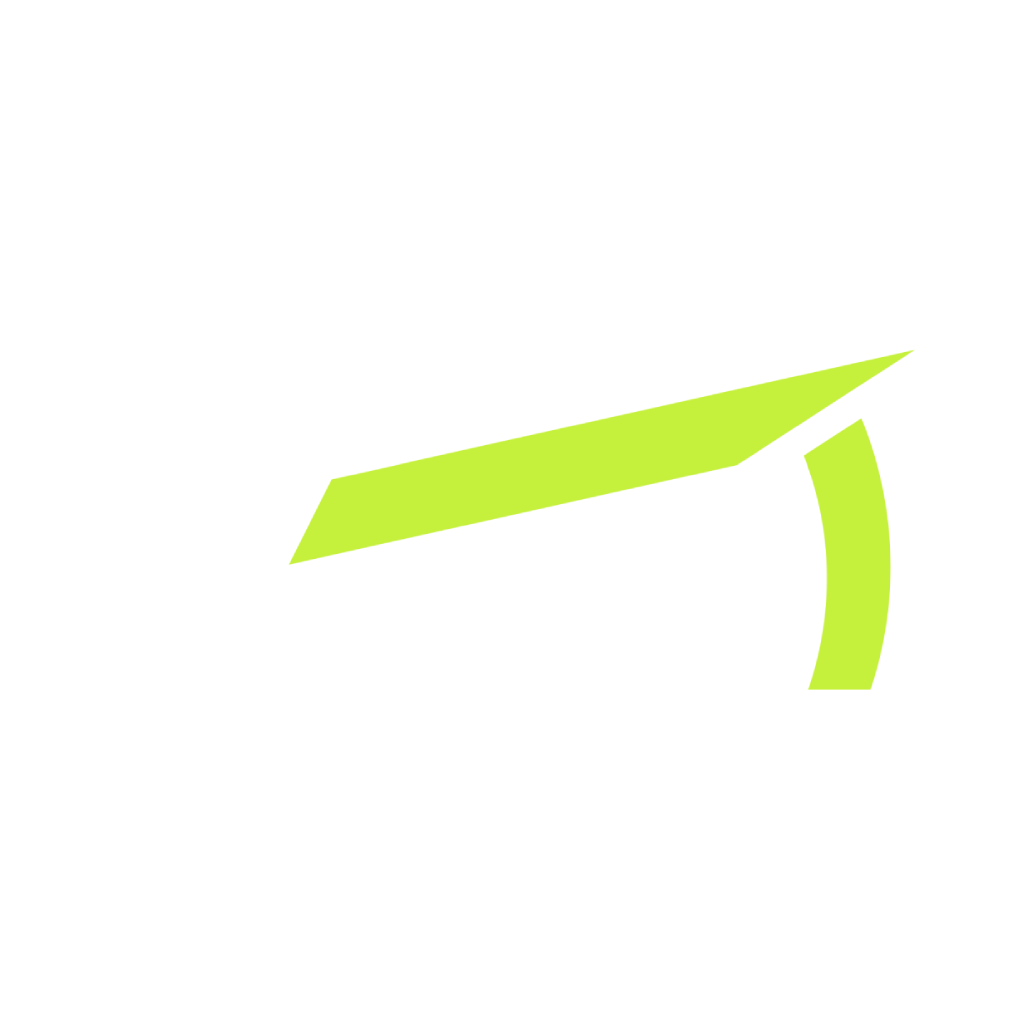
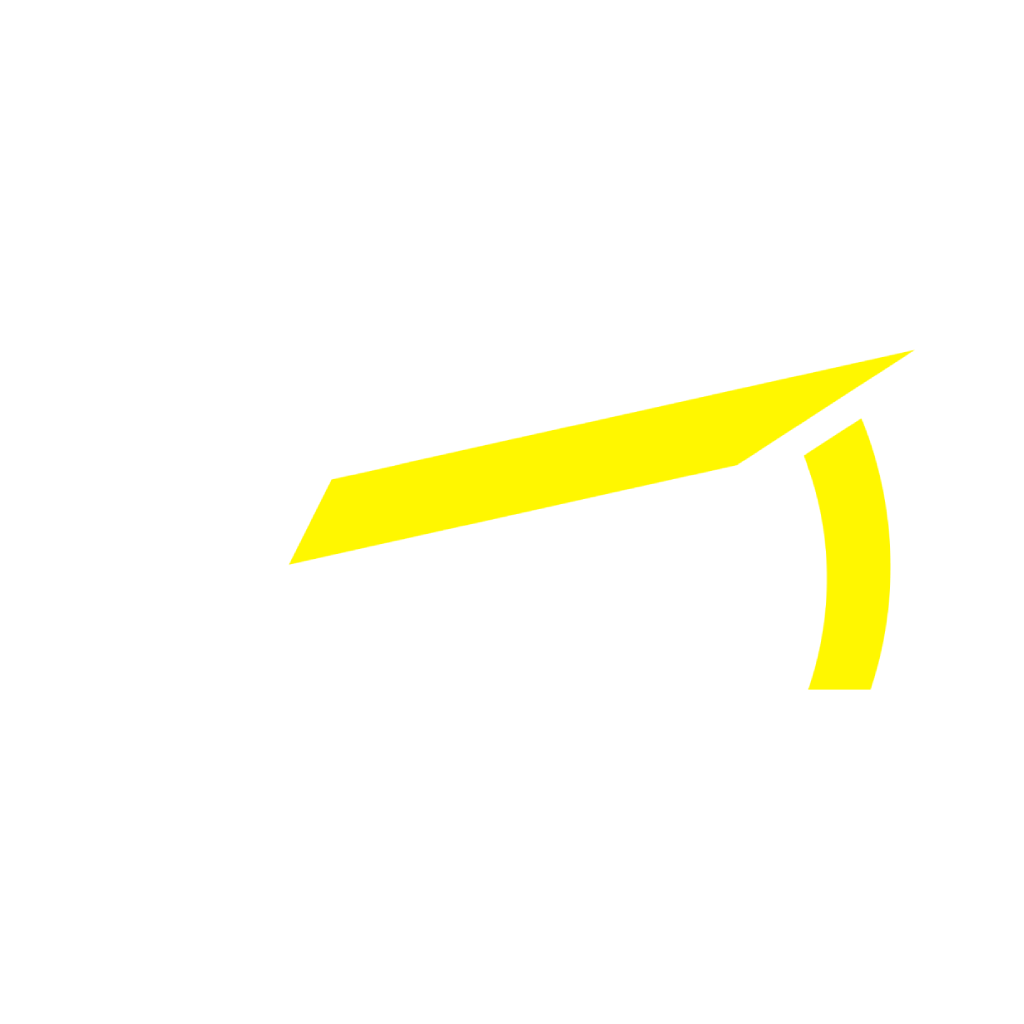
rebrand: Fuel STK to Fueled 2Spec
Site-wide text rename, accent color lime -> yellow, and new logo assets
(nav-logo, hero, favicons, touch icon) matching the mobile app's rebrand.
The hero/nav wordmarks are rebuilt with the new name and a new tagline
("Fuel, built to your spec" / "Your fuel to your specifications"),
replacing the old "...Stacked" wordplay tied to the old name.

Changed region(s): [[0.2812, 0.3438, 0.875, 0.6875]]

diff --git a/faq.html b/faq.html
@@ -3,8 +3,8 @@
 <head>
 <meta charset="UTF-8">
 <meta name="viewport" content="width=device-width, initial-scale=1.0">
-<title>FAQ — Fuel STK</title>
-<meta name="description" content="Everything you need to know about Fuel STK and how it can transform your nutrition.">
+<title>FAQ — Fueled 2Spec</title>
+<meta name="description" content="Everything you need to know about Fueled 2Spec and how it can transform your nutrition.">
 <link rel="icon" type="image/png" href="assets/favicon-32.png?v=3">
 <link rel="apple-touch-icon" href="assets/apple-touch-icon.png?v=3">
 <link rel="stylesheet" href="assets/style.css">
@@ -16,7 +16,7 @@
 <header>
   <nav class="wrap">
     <a href="index.html" class="brand">
-      <img src="assets/nav-logo.png" alt="Fuel STK">
+      <img src="assets/nav-logo.png" alt="Fueled 2Spec">
     </a>
     <div class="nav-links">
       <a href="index.html">Home</a>
@@ -40,7 +40,7 @@
     <img src="assets/apple-touch-icon.png" alt="" class="faq-hero-mark">
     <div class="eyebrow"><span class="bar"></span> FAQ</div>
     <h1>Questions?<br>We've <span class="accent">got answers.</span></h1>
-    <p class="sub">Everything you need to know about Fuel STK and how it can transform your nutrition.</p>
+    <p class="sub">Everything you need to know about Fueled 2Spec and how it can transform your nutrition.</p>
     <div class="faq-search">
       <svg viewBox="0 0 24 24" fill="none" stroke="currentColor" stroke-width="2"><circle cx="11" cy="11" r="7"/><path d="m21 21-4.3-4.3"/></svg>
       <input type="text" id="faqSearch" placeholder="Search questions...">
@@ -75,12 +75,12 @@
 
   <div class="faq-list" id="faqList">
     <details class="faq-item" data-cat="general" open>
-      <summary>What is Fuel STK?<span class="faq-toggle"></span></summary>
-      <p>Fuel STK is an AI-powered meal planning app that builds meal plans from the groceries you already have. Tell it your goals, stock your pantry, and it creates meals designed to hit your macros — no spreadsheets or guesswork required.</p>
+      <summary>What is Fueled 2Spec?<span class="faq-toggle"></span></summary>
+      <p>Fueled 2Spec is an AI-powered meal planning app that builds meal plans from the groceries you already have. Tell it your goals, stock your pantry, and it creates meals designed to hit your macros — no spreadsheets or guesswork required.</p>
     </details>
     <details class="faq-item" data-cat="meal-plans">
       <summary>How does the AI meal planning work?<span class="faq-toggle"></span></summary>
-      <p>Fuel STK uses Claude to choose a coherent, realistic set of foods for each meal from your pantry, then a math solver calculates the exact grams needed to hit your macro targets — so the food choices are sensible and the numbers are always precise.</p>
+      <p>Fueled 2Spec uses Claude to choose a coherent, realistic set of foods for each meal from your pantry, then a math solver calculates the exact grams needed to hit your macro targets — so the food choices are sensible and the numbers are always precise.</p>
     </details>
     <details class="faq-item" data-cat="meal-plans">
       <summary>What's the difference between a regular plan and an AI plan?<span class="faq-toggle"></span></summary>
@@ -88,15 +88,15 @@
     </details>
     <details class="faq-item" data-cat="general">
       <summary>Do I have to track calories or macros manually?<span class="faq-toggle"></span></summary>
-      <p>No — Fuel STK calculates your daily targets and builds meal plans to match them automatically. You can also log food manually any time you want to track something outside your plan.</p>
+      <p>No — Fueled 2Spec calculates your daily targets and builds meal plans to match them automatically. You can also log food manually any time you want to track something outside your plan.</p>
     </details>
     <details class="faq-item" data-cat="meal-plans">
       <summary>What if I have dietary restrictions or food preferences?<span class="faq-toggle"></span></summary>
-      <p>Fuel STK doesn't track allergies or dietary restrictions — since every meal is built only from foods already in your pantry, your pantry itself is the safeguard: simply don't add foods you can't or don't want to eat, and Fuel STK will never suggest them. Always review a suggested meal before eating it, just as you would any recipe.</p>
+      <p>Fueled 2Spec doesn't track allergies or dietary restrictions — since every meal is built only from foods already in your pantry, your pantry itself is the safeguard: simply don't add foods you can't or don't want to eat, and Fueled 2Spec will never suggest them. Always review a suggested meal before eating it, just as you would any recipe.</p>
     </details>
     <details class="faq-item" data-cat="how-to">
       <summary>How do I add my groceries?<span class="faq-toggle"></span></summary>
-      <p>Scan a barcode or search by name — Fuel STK looks up nutrition info automatically and adds it to your pantry. You can also enter a food manually if it isn't in the database.</p>
+      <p>Scan a barcode or search by name — Fueled 2Spec looks up nutrition info automatically and adds it to your pantry. You can also enter a food manually if it isn't in the database.</p>
     </details>
     <details class="faq-item" data-cat="how-to">
       <summary>Should I add a food by weight or by unit?<span class="faq-toggle"></span></summary>
@@ -124,7 +124,7 @@
     </details>
     <details class="faq-item" data-cat="how-to">
       <summary>Can I edit my meal plan?<span class="faq-toggle"></span></summary>
-      <p>Yes. You can swap ingredients, add or remove foods, and adjust quantities on any meal — Fuel STK will recalculate portions to help keep your day on target.</p>
+      <p>Yes. You can swap ingredients, add or remove foods, and adjust quantities on any meal — Fueled 2Spec will recalculate portions to help keep your day on target.</p>
     </details>
     <details class="faq-item" data-cat="how-to">
       <summary>Can I add extra food to a specific meal?<span class="faq-toggle"></span></summary>
@@ -140,7 +140,7 @@
     </details>
     <details class="faq-item" data-cat="how-to">
       <summary>How do I swap a food in my meal plan?<span class="faq-toggle"></span></summary>
-      <p>Tap the swap icon (<ion-icon name="swap-horizontal-outline" aria-hidden="true" style="font-size:16px;vertical-align:-3px;color:var(--primary)"></ion-icon>) on any item in a meal, then pick a replacement from your pantry. Fuel STK tries to match the macros of the food you're swapping out, so a swap doesn't throw off what that meal was already hitting.</p>
+      <p>Tap the swap icon (<ion-icon name="swap-horizontal-outline" aria-hidden="true" style="font-size:16px;vertical-align:-3px;color:var(--primary)"></ion-icon>) on any item in a meal, then pick a replacement from your pantry. Fueled 2Spec tries to match the macros of the food you're swapping out, so a swap doesn't throw off what that meal was already hitting.</p>
     </details>
     <details class="faq-item" data-cat="how-to">
       <summary>Can I replace an entire meal instead of editing it?<span class="faq-toggle"></span></summary>
@@ -160,7 +160,7 @@
     </details>
     <details class="faq-item" data-cat="how-to">
       <summary>Can I add an extra meal just for one day?<span class="faq-toggle"></span></summary>
-      <p>Yes — tap "Add a meal for today" on the Plan tab to add a one-off meal without changing your regular schedule. Once you've added food to it, Fuel STK can offer to recalculate your other meals to make room — it will never touch a meal you've already logged.</p>
+      <p>Yes — tap "Add a meal for today" on the Plan tab to add a one-off meal without changing your regular schedule. Once you've added food to it, Fueled 2Spec can offer to recalculate your other meals to make room — it will never touch a meal you've already logged.</p>
     </details>
     <details class="faq-item" data-cat="how-to">
       <summary>Why does my plan say it can't hit my targets?<span class="faq-toggle"></span></summary>
@@ -176,7 +176,7 @@
     </details>
     <details class="faq-item" data-cat="how-to">
       <summary>How do I log what I actually ate?<span class="faq-toggle"></span></summary>
-      <p>Tap "I ate this" (<ion-icon name="journal-outline" aria-hidden="true" style="font-size:16px;vertical-align:-3px;color:var(--primary)"></ion-icon>) on any meal in your plan to log it in one tap, or add food manually from the Log tab. Once a meal is logged, Fuel STK never changes its portions again — even if you edit or recalculate the rest of the day.</p>
+      <p>Tap "I ate this" (<ion-icon name="journal-outline" aria-hidden="true" style="font-size:16px;vertical-align:-3px;color:var(--primary)"></ion-icon>) on any meal in your plan to log it in one tap, or add food manually from the Log tab. Once a meal is logged, Fueled 2Spec never changes its portions again — even if you edit or recalculate the rest of the day.</p>
     </details>
     <details class="faq-item" data-cat="how-to">
       <summary>Can I log or edit food for a previous day?<span class="faq-toggle"></span></summary>
@@ -196,7 +196,7 @@
     </details>
     <details class="faq-item" data-cat="how-to">
       <summary>Can I sign in with Apple or Google?<span class="faq-toggle"></span></summary>
-      <p>Yes — Fuel STK supports signing in with Apple, Google, or a regular email and password, whichever is easiest for you.</p>
+      <p>Yes — Fueled 2Spec supports signing in with Apple, Google, or a regular email and password, whichever is easiest for you.</p>
     </details>
     <details class="faq-item" data-cat="how-to">
       <summary>How do I delete my account?<span class="faq-toggle"></span></summary>
@@ -207,19 +207,19 @@
       <p>Both are linked from the Settings screen in the app (tap the gear icon — <ion-icon name="settings-outline" aria-hidden="true" style="font-size:16px;vertical-align:-3px;color:var(--primary)"></ion-icon>), as well as at the bottom of this page.</p>
     </details>
     <details class="faq-item" data-cat="general">
-      <summary>Is Fuel STK suitable for everyone?<span class="faq-toggle"></span></summary>
-      <p>Fuel STK provides general nutrition and meal-planning information — it's not a substitute for medical or dietary advice from a qualified professional. If you have a medical condition or specific health needs, check with a doctor or registered dietitian before making significant changes to your diet.</p>
+      <summary>Is Fueled 2Spec suitable for everyone?<span class="faq-toggle"></span></summary>
+      <p>Fueled 2Spec provides general nutrition and meal-planning information — it's not a substitute for medical or dietary advice from a qualified professional. If you have a medical condition or specific health needs, check with a doctor or registered dietitian before making significant changes to your diet.</p>
     </details>
     <details class="faq-item" data-cat="general">
-      <summary>What platforms is Fuel STK available on?<span class="faq-toggle"></span></summary>
-      <p>Fuel STK is currently in early access testing for iOS, with an App Store release coming soon. Android support is planned — join the early access list to be notified when it's available.</p>
+      <summary>What platforms is Fueled 2Spec available on?<span class="faq-toggle"></span></summary>
+      <p>Fueled 2Spec is currently in early access testing for iOS, with an App Store release coming soon. Android support is planned — join the early access list to be notified when it's available.</p>
     </details>
     <details class="faq-item" data-cat="privacy">
       <summary>Is my data secure?<span class="faq-toggle"></span></summary>
       <p>Yes. Your data is encrypted in transit, and our database uses row-level security so your information is only ever accessible from your own account. You can permanently delete your account and all associated data at any time from Settings.</p>
     </details>
     <details class="faq-item" data-cat="privacy">
-      <summary>What data does Fuel STK collect?<span class="faq-toggle"></span></summary>
+      <summary>What data does Fueled 2Spec collect?<span class="faq-toggle"></span></summary>
       <p>Just what's needed to build your plans and track your progress: your account info, health and fitness details you provide (age, weight, goals, macro targets), your pantry and meal history, and basic usage data like how many AI plans you've generated. Full details are in our Privacy Policy.</p>
     </details>
     <details class="faq-item" data-cat="privacy">
@@ -231,12 +231,12 @@
       <p>Not yet — you can view and edit your data directly in the app, and permanently delete all of it from Settings, but a dedicated export option isn't built yet. It's on our roadmap.</p>
     </details>
     <details class="faq-item" data-cat="billing">
-      <summary>Do I need an account to use Fuel STK?<span class="faq-toggle"></span></summary>
-      <p>Yes — creating an account (with email, Apple, or Google) lets Fuel STK securely save your pantry, targets, and meal history.</p>
+      <summary>Do I need an account to use Fueled 2Spec?<span class="faq-toggle"></span></summary>
+      <p>Yes — creating an account (with email, Apple, or Google) lets Fueled 2Spec securely save your pantry, targets, and meal history.</p>
     </details>
     <details class="faq-item" data-cat="billing">
       <summary>What are the pricing and subscription options?<span class="faq-toggle"></span></summary>
-      <p>Fuel STK is currently free during early access. We'll announce pricing details before any paid tier launches — early access users will be the first to know.</p>
+      <p>Fueled 2Spec is currently free during early access. We'll announce pricing details before any paid tier launches — early access users will be the first to know.</p>
     </details>
     <details class="faq-item" data-cat="billing">
       <summary>Can I cancel my subscription anytime?<span class="faq-toggle"></span></summary>
@@ -252,7 +252,7 @@
       <div class="cta-icon"><img src="assets/apple-touch-icon.png" alt=""></div>
       <div>
         <h2>Still have questions?</h2>
-        <p>Reach out and we'll get back to you — or join the early access list to be the first to try Fuel STK.</p>
+        <p>Reach out and we'll get back to you — or join the early access list to be the first to try Fueled 2Spec.</p>
       </div>
     </div>
     <div class="store-badges">
@@ -268,7 +268,7 @@
   <div class="wrap">
     <div class="footer-grid">
       <div class="footer-brand-col">
-        <img src="assets/nav-logo.png" alt="Fuel STK">
+        <img src="assets/nav-logo.png" alt="Fueled 2Spec">
         <p>Your fuel <span class="accent">Stacked</span></p>
         <a href="mailto:info@fuelstk.com" class="footer-email">
           <svg viewBox="0 0 24 24" fill="none" stroke="currentColor" stroke-width="1.8"><rect x="3" y="5" width="18" height="14" rx="2"/><path d="m3 7 9 6 9-6"/></svg>
@@ -287,7 +287,7 @@
         <a href="mailto:support@fuelstk.com">Contact Support</a>
       </div>
     </div>
-    <div class="footer-note">© 2026 Fuel STK. All rights reserved.</div>
+    <div class="footer-note">© 2026 Fueled 2Spec. All rights reserved.</div>
   </div>
 </footer>
 

diff --git a/index.html b/index.html
@@ -3,8 +3,8 @@
 <head>
 <meta charset="UTF-8">
 <meta name="viewport" content="width=device-width, initial-scale=1.0">
-<title>Fuel STK — Your fuel Stacked</title>
-<meta name="description" content="Fuel STK builds meal plans from what's actually in your pantry, so you hit your macros without the guesswork.">
+<title>Fueled 2Spec — Fuel, built to your spec</title>
+<meta name="description" content="Fueled 2Spec builds meal plans from what's actually in your pantry, so you hit your macros without the guesswork.">
 <link rel="icon" type="image/png" href="assets/favicon-32.png?v=3">
 <link rel="apple-touch-icon" href="assets/apple-touch-icon.png?v=3">
 <link rel="stylesheet" href="assets/style.css">
@@ -14,7 +14,7 @@
 <header>
   <nav class="wrap">
     <a href="#" class="brand">
-      <img src="assets/nav-logo.png" alt="Fuel STK">
+      <img src="assets/nav-logo.png" alt="Fueled 2Spec">
     </a>
     <div class="nav-links">
       <a href="index.html" class="active">Home</a>
@@ -37,20 +37,20 @@
   <div class="wrap">
     <div>
       <div class="eyebrow"><span class="bar"></span> AI-Powered Meal Plans</div>
-      <h1>Your fuel<br><span class="accent">Stacked</span></h1>
-      <p class="sub">Fuel STK creates personalized meal plans using the groceries you already have — designed to hit your macros and crush your goals.</p>
+      <h1>Fuel,<br><span class="accent">built to spec</span></h1>
+      <p class="sub">Fueled 2Spec creates personalized meal plans using the groceries you already have — designed to hit your macros and crush your goals.</p>
       <div class="hero-ctas">
         <a href="mailto:info@fuelstk.com?subject=Apple" class="btn-primary">Notify me — iOS</a>
         <a href="mailto:info@fuelstk.com?subject=Android" class="btn-secondary">Notify me — Android</a>
       </div>
       <div class="proof">
         <span class="rocket">🚀</span>
-        <span class="proof-text"><strong>Launching soon</strong> — join the early access list and be first to get stacked.</span>
+        <span class="proof-text"><strong>Launching soon</strong> — join the early access list and be first to get fueled.</span>
       </div>
     </div>
     <div class="phones">
-      <img src="assets/phone-dashboard.png" alt="Fuel STK dashboard" class="phone-shot phone-1">
-      <img src="assets/phone-pantry.png" alt="Fuel STK pantry" class="phone-shot phone-2">
+      <img src="assets/phone-dashboard.png" alt="Fueled 2Spec dashboard" class="phone-shot phone-1">
+      <img src="assets/phone-pantry.png" alt="Fueled 2Spec pantry" class="phone-shot phone-2">
     </div>
   </div>
 </section>
@@ -61,7 +61,7 @@
       <div class="problem-copy">
         <div class="eyebrow"><span class="bar"></span> The Problem</div>
         <h2>Eating for your goals shouldn't require a spreadsheet.</h2>
-        <p>You already know what foods you like. Fuel STK removes the repetitive part — planning meals, calculating portions, and trying to make every number line up.</p>
+        <p>You already know what foods you like. Fueled 2Spec removes the repetitive part — planning meals, calculating portions, and trying to make every number line up.</p>
       </div>
       <div class="problem-cards">
         <div class="problem-card">
@@ -78,7 +78,7 @@
         </div>
       </div>
     </div>
-    <p class="problem-line">Fuel STK <span class="accent-underline">handles</span> the math so you can focus on eating and progressing.</p>
+    <p class="problem-line">Fueled 2Spec <span class="accent-underline">handles</span> the math so you can focus on eating and progressing.</p>
   </div>
 </section>
 
@@ -117,7 +117,7 @@
       <div class="how-step">
         <div class="how-num">03</div>
         <h3><svg viewBox="0 0 24 24" fill="none" stroke="currentColor" stroke-width="1.5"><path d="M12 3 3 8l9 5 9-5-9-5z"/><path d="M3 12l9 5 9-5"/><path d="M3 16l9 5 9-5"/></svg> Generate your day</h3>
-        <p>Fuel STK combines your foods into realistic meals and calculates the portions for you.</p>
+        <p>Fueled 2Spec combines your foods into realistic meals and calculates the portions for you.</p>
         <div class="how-phone">
           <div class="how-phone-frame how-phone-ready">
             <div class="how-phone-check"><svg viewBox="0 0 24 24" fill="none" stroke="currentColor" stroke-width="2.5"><path d="M4 12l5 5L20 6"/></svg></div>
@@ -135,7 +135,7 @@
       <div class="action-copy">
         <div class="eyebrow"><span class="bar"></span> See It In Action</div>
         <h2>Your pantry.<br>Your goals.<br>Your plan.</h2>
-        <p>Fuel STK turns the groceries you already have into macro-friendly meals — automatically portioned for your goals.</p>
+        <p>Fueled 2Spec turns the groceries you already have into macro-friendly meals — automatically portioned for your goals.</p>
       </div>
       <div class="action-visual">
         <div class="action-card">
@@ -149,8 +149,8 @@
         </div>
         <div class="action-flow">
           <svg viewBox="0 0 24 24" fill="none" stroke="currentColor" stroke-width="1.8"><path d="M5 12h14M13 6l6 6-6 6"/></svg>
-          <img src="assets/app_icon_sm.png" alt="Fuel STK AI" class="action-ai-icon">
-          <span class="action-ai-label">Fuel STK AI</span>
+          <img src="assets/app_icon_sm.png" alt="Fueled 2Spec AI" class="action-ai-icon">
+          <span class="action-ai-label">Fueled 2Spec AI</span>
           <svg viewBox="0 0 24 24" fill="none" stroke="currentColor" stroke-width="1.8"><path d="M5 12h14M13 6l6 6-6 6"/></svg>
         </div>
         <div class="action-card">
@@ -176,7 +176,7 @@
       <div class="feature-card">
         <div class="feature-icon"><svg viewBox="0 0 24 24" fill="none" stroke="currentColor" stroke-width="1.5"><path d="M4 21h16"/><path d="M12 3v13"/><path d="M7 16l5-13 5 13"/><path d="M7 16a5 5 0 0 0 10 0"/></svg></div>
         <h4>Exact portions</h4>
-        <p>Fuel STK calculates the amount of each food needed to fit your targets — down to the gram.</p>
+        <p>Fueled 2Spec calculates the amount of each food needed to fit your targets — down to the gram.</p>
       </div>
       <div class="feature-card">
         <div class="feature-icon"><svg viewBox="0 0 24 24" fill="none" stroke="currentColor" stroke-width="1.5"><path d="M9 18h6M10 21h4"/><path d="M12 3a6 6 0 0 0-4 10.5c.6.6 1 1.4 1 2.5h6c0-1.1.4-1.9 1-2.5A6 6 0 0 0 12 3z"/></svg></div>
@@ -240,7 +240,7 @@
     <div>
       <div class="eyebrow"><span class="bar"></span> Built For You</div>
       <h2>Meals that fit your life</h2>
-      <p>Whether you want to build muscle, lose fat, or just eat healthier — Fuel STK makes it easy with meals you'll actually enjoy.</p>
+      <p>Whether you want to build muscle, lose fat, or just eat healthier — Fueled 2Spec makes it easy with meals you'll actually enjoy.</p>
       <ul class="checklist">
         <li><span class="check"><svg viewBox="0 0 24 24" fill="none" stroke="currentColor" stroke-width="3"><path d="M4 12l5 5L20 6"/></svg></span> Personalized to your goals</li>
         <li><span class="check"><svg viewBox="0 0 24 24" fill="none" stroke="currentColor" stroke-width="3"><path d="M4 12l5 5L20 6"/></svg></span> Uses the groceries you have</li>
@@ -250,7 +250,7 @@
     </div>
     <div class="split-visual">
       <div class="food-plate">🍲</div>
-      <img src="assets/phone-dashboard.png" alt="Fuel STK dashboard" class="split-phone-shot">
+      <img src="assets/phone-dashboard.png" alt="Fueled 2Spec dashboard" class="split-phone-shot">
     </div>
   </div>
 </section>
@@ -261,7 +261,7 @@
       <div class="cta-icon"><img src="assets/apple-touch-icon.png" alt=""></div>
       <div>
         <h2>Your groceries are already there.<br><span class="accent">Your meal plan should be too.</span></h2>
-        <p>Join the Fuel STK early-access list and be one of the first to turn your pantry into personalized, macro-friendly meals.</p>
+        <p>Join the Fueled 2Spec early-access list and be one of the first to turn your pantry into personalized, macro-friendly meals.</p>
       </div>
     </div>
     <div class="cta-right">
@@ -274,7 +274,7 @@
   <div class="wrap">
     <div class="footer-grid">
       <div class="footer-brand-col">
-        <img src="assets/nav-logo.png" alt="Fuel STK">
+        <img src="assets/nav-logo.png" alt="Fueled 2Spec">
         <p>Your fuel <span class="accent">Stacked</span></p>
         <a href="mailto:info@fuelstk.com" class="footer-email">
           <svg viewBox="0 0 24 24" fill="none" stroke="currentColor" stroke-width="1.8"><rect x="3" y="5" width="18" height="14" rx="2"/><path d="m3 7 9 6 9-6"/></svg>
@@ -293,7 +293,7 @@
         <a href="mailto:support@fuelstk.com">Contact Support</a>
       </div>
     </div>
-    <div class="footer-note">© 2026 Fuel STK. All rights reserved.</div>
+    <div class="footer-note">© 2026 Fueled 2Spec. All rights reserved.</div>
   </div>
 </footer>
 

diff --git a/assets/style.css b/assets/style.css
@@ -3,7 +3,7 @@
   --surface: #141414;
   --surface-alt: #1c1c1c;
   --border: #2a2a2a;
-  --primary: #c5f03c;
+  --primary: #fff700;
   --text: #f5f5f5;
   --text-secondary: #a3a3a3;
   --text-tertiary: #6b6b6b;
